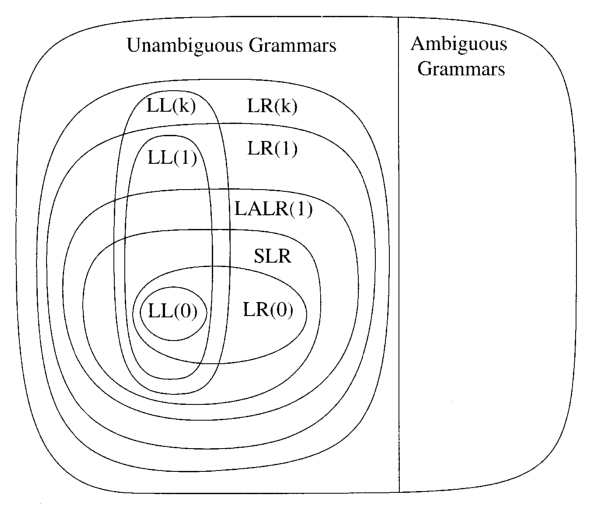
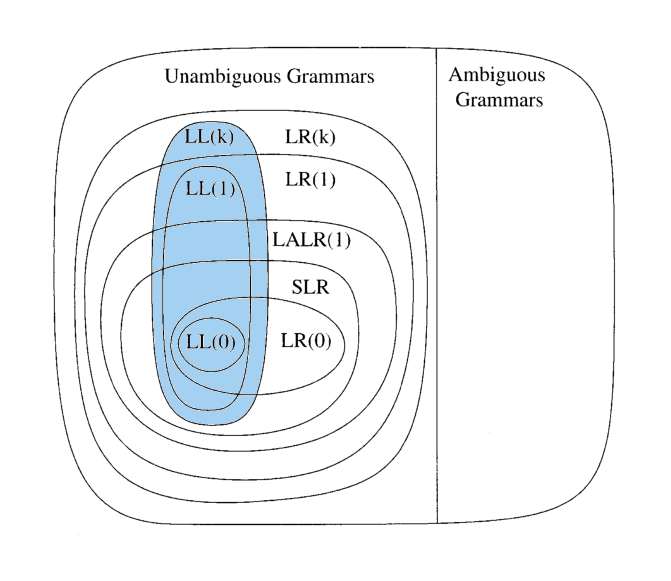
nogle todos og lidt fixes rundt omkring

diff --git a/chapters/Design.tex b/chapters/Design.tex
@@ -107,7 +107,6 @@ This is done with the syntax shown in \myref{lst:matrix}.
 As seen there are two ways of declaring a matrix and a vector, one can either provide the values for each entry, or one can provide the dimensions required of a matrix or vector in which case all values are initialised as zero.
 The syntax for the latter does not adhere to the concept of orthogonality mentioned in \myref{cha:language_criteria} although the use of this syntax should be held to a minimum, as it primarily exists such that functions in the standard library for \gls{gamble} can be created.
 What these functions entail is described in \myref{sec:funcs}.
-Here it is also seen why the use of ``;'' is a smart choice for ending statements.\todo{what does this mean?}
 
 \begin{lstlisting}[caption={Syntax for creating a matrix or vector},label={lst:matrix},numbers=none]
 //Makes a 2x2 matrix by providing entry values
@@ -130,6 +129,8 @@ Available operators for simple data types in the language can be found on \myref
 Some operators will work work with vectors and matrices.
 Since the elements in vectors and matrices are one of the simple types of \gls{gamble}, the operands on both sides of an infix operators must adhere to the rules of type compatibility.
 The list of possible operands on these complex data types can be seen on \myref{tbl:matOps}.
+ It is not shown in the table but the $+$ and $-$ operations in \myref{tbl:matOps} requires the matrices and vectors to have the same dimensions.
+ The $*$ operation requires one matrices to have the same row size as the other matrices columns size. Ex. a matrices [j,k] and a matrices [k,h] can be multiplied because they have the same size k.
 \input{figures/matrixOperators.tex}
 %\subsection*{Memory handling}
 %Locally declared and small and simple variables will be written to the stack, while large quantities of data must be written to the heap. 

diff --git a/chapters/sections/subsections/MakeFile.tex b/chapters/sections/subsections/MakeFile.tex
@@ -7,7 +7,7 @@ This produces an executable file for the platform targetted by the compiler, thi
 The same executeable file is not usable for another platform, e.g. ARM, nor on another operating system, e.g. Windows or OS X. 
 To maintain portability a ``MakeFile'' is used; a MakeFile is a file in the syntax which the GNU make utility can execute. 
 The make utiliry is a set of rules which ensures that the correct compiler, path, headers, etc. are used during compilation on one of multiple platforms. 
-This means that after running the \gls{gamble} compiler, on a configured computer, e.g. has OpenCL C headers, libary, a compiler etc., the make command can be used to build a binary file to be executed.\todo{der skal nok et kilde på det her}
+This means that after running the \gls{gamble} compiler, on a configured computer, e.g. has OpenCL C headers, libary, a compiler etc., the make command can be used to build a binary file to be executed.
 
 The kernel can either be compiled at compile-time or Just-In-Time (JIT) compiled at runtime.
 The JIT compilation, called online compilation under OpenCL, allows the system to adapt with platform specific optimisations for the running platform.

diff --git a/chapters/sections/subsections/Templates.tex b/chapters/sections/subsections/Templates.tex
@@ -34,7 +34,7 @@ For the remaining part of this section the fastest device is a \acrshort{gpu}.
 These arrays are then filled out with different numbers corresponding to the columns and rows of the matrices or vectors being calculated upon.
 This way of appending templates to the outputCode string is used in different places in the code generation when handling the complex datatypes matrices and vectors.
 In fact whenever one of the following operators \texttt{+, -, *, \#, \^{} } are used with matrices or vectors a template is being appended to the outputCode.
-See \myref{tbl:matOps} for a description of what each operator will produce in gamble.
+See \myref{tbl:matOps} for a description of what each operator will produce in \gls{gamble}.
 
 When an assignment's rightside or a declaration's rightside consists of an expression using operators and matrices or vectors, the visitor's check for which operator is used and then inputs a launch kernel template depending on the operator.
 The compiler contains files which have the code for launching the kernel for the specific situation and also for the kernel itself.

diff --git a/chapters/sections/subsections/DesignofCodeGen.tex b/chapters/sections/subsections/DesignofCodeGen.tex
@@ -28,6 +28,6 @@ The reason this is done at run-time instead of compile-time is because the sizes
 
 When the string is complete it is printed into a file called code.c, along with all the other files needed for running the code, e.g. the kernels used for performing computations on the \acrshort{gpu}.
 The code.c file is structured so that it is a valid C program.
-First off are the libraries included that C uses, then follows a list of prototypes which are all the gamble functions translated into C code, both the user made and libraries.
-After the prototypes the main function is made which consists of all the statements in the gamble sourcecode translated into C.
+First off are the libraries included that C uses, then follows a list of prototypes which are all the \gls{gamble} functions translated into C code, both the user made and libraries.
+After the prototypes the main function is made which consists of all the statements in the \gls{gamble} sourcecode translated into C.
 After the main method all the implementations of the prototypes are made.

diff --git a/chapters/sections/subsections/ErrorHandling.tex b/chapters/sections/subsections/ErrorHandling.tex
@@ -1,4 +1,6 @@
-\info[inline]{Metatekst? - Troels}
+Error handling is a descriptive section of how the \gls{gamble} handle errors, and how error handling is implemented.
+Error handling is referred to as detection and solving of programming errors.
+Both errors at compile time and run time will be handled.
 \subsection*{Design}\label{subsec:DesignErrorHandling}
 The source code given to the \gls{gamble} compiler may contain errors and warnings, these errors are found and uncovered in various stages of the compiler.   
 In the syntax analysis, all syntactic errors are found, and the compilation is stopped if errors are found, since it would not be advised to further compile source code, which contains fundamental syntactic errors.

diff --git a/chapters/Syntax.tex b/chapters/Syntax.tex
@@ -113,7 +113,7 @@ More powerful means that a grammar following it can produce more languages typic
 \begin{figure}[!ht]
 \centering
  \includegraphics[width=0.5\textwidth]{figures/classesofgrammars.png} % trim=4.85cm 15cm 0.85cm 1cm
-\caption{A venndiagram showing the similarities between the different subclasses of CFGs. \citep{NvidiaCUDASeminar} \todo[inline]{TODO: Tikz figur med LL(*) indsat.}}\label{image:hierarchyofgrammars}
+\caption{A venndiagram showing the similarities between the different subclasses of CFGs. Where LL(*) is marked with a light blue colour. }\citep{NvidiaCUDASeminar} 
 \vspace{-15pt}
 \end{figure}
 \input{chapters/sections/GambleCFG.tex}

diff --git a/chapters/Semantics2.tex b/chapters/Semantics2.tex
@@ -27,7 +27,6 @@ A few of the big-step semantics for \gls{gamble} is included in this chapter, wh
 A few of the most important and interesting operational semantics which will be explained are, variable declaration, assignment, matrix declaration, matrix multiplication and scalar product.
 
 \subsection*{Declaring Variables}
-\todo{Skal skrives om - er det samme som fra bogen}
 Any non-empty variable declaration will modify the variable environment since the new variables will be bound to the new location.
 A variable declaration will also modify the store, since the new location will be initialised to contain the initial values of the new variables.
 

diff --git a/figures/matrixOperators.tex b/figures/matrixOperators.tex
@@ -20,5 +20,5 @@
                     & \cellcolor{gray!40}Vector substraction    & \cellcolor{gray!40}Vector        & \cellcolor{gray!40}Vector         & \cellcolor{gray!40}Vector       \\ \cline{2-5} 
 \multirow{-4}{*}{-} & Substract numeral from each index         & Vector                           & Numeral                           & Vector                          \\ \hline
 \end{tabular}
-\caption{List of operators on complex data types in \gls{gamble}. \info[inline]{Kunne evt. have noget om at de skal være samme dimensioner?}}\label{tbl:matOps}
+\caption{List of operators on complex data types in \gls{gamble}.}\label{tbl:matOps}
 \end{table}
